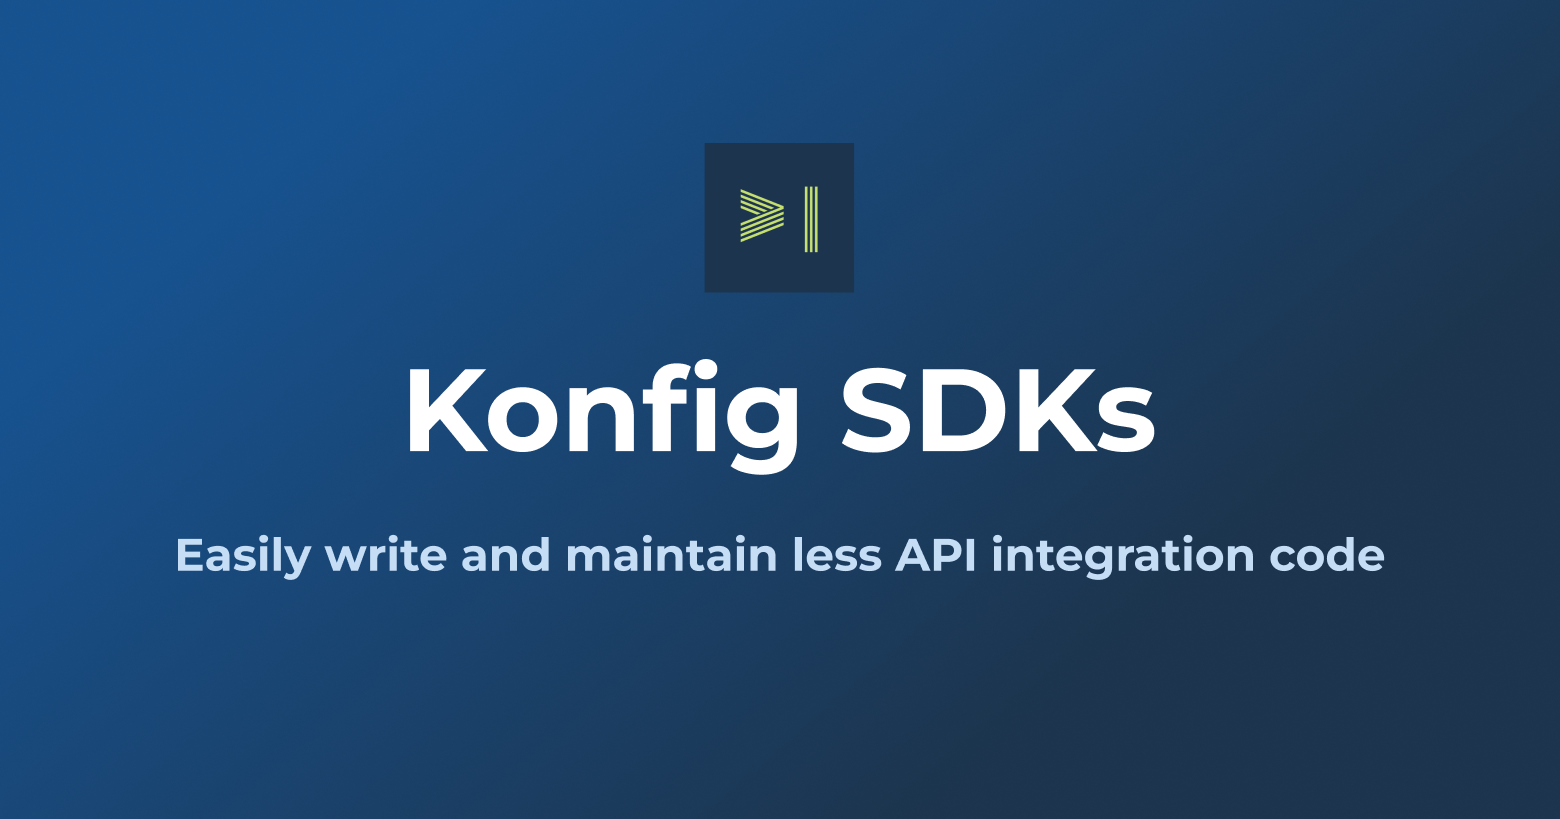
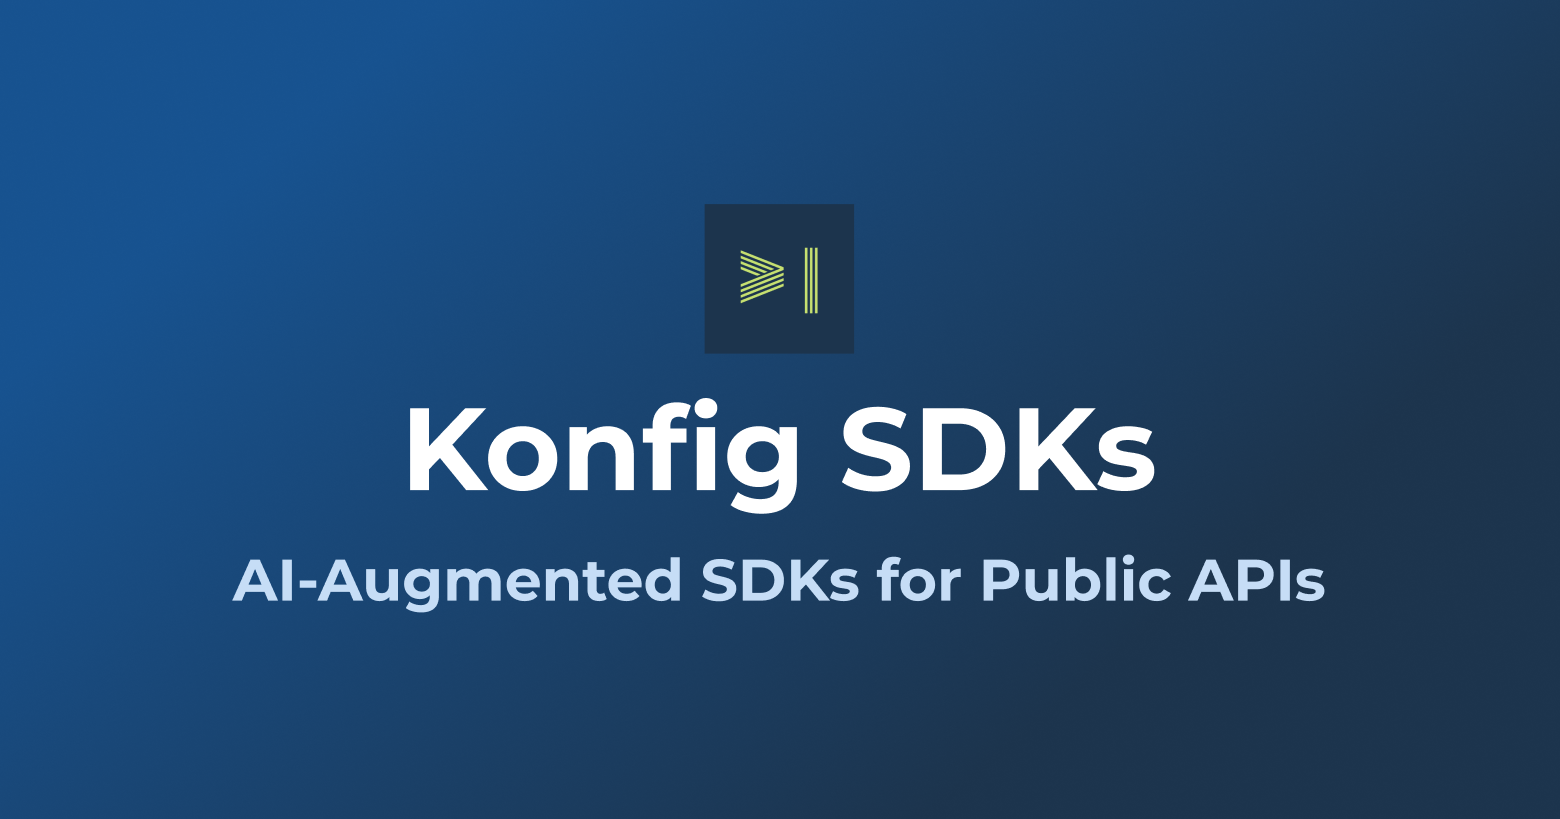
mention AI in copy

Changed region(s): [[0.0923, 0.1526, 0.8923, 0.7631]]

diff --git a/generator/konfig-docs/src/components/HowKonfigWorks.tsx b/generator/konfig-docs/src/components/HowKonfigWorks.tsx
@@ -58,7 +58,7 @@ export function HowKonfigWorks() {
         </div>
         <div className="grow-0">
           <h3 className="text-[hsl(243_75%_97%)] text-2xl leading-tight sm:text-3xl">
-            Generates SDKs from{" "}
+            Generates AI-Augmented SDKs from{" "}
             <span className="font-mono whitespace-nowrap">
               openapi-examples
             </span>
